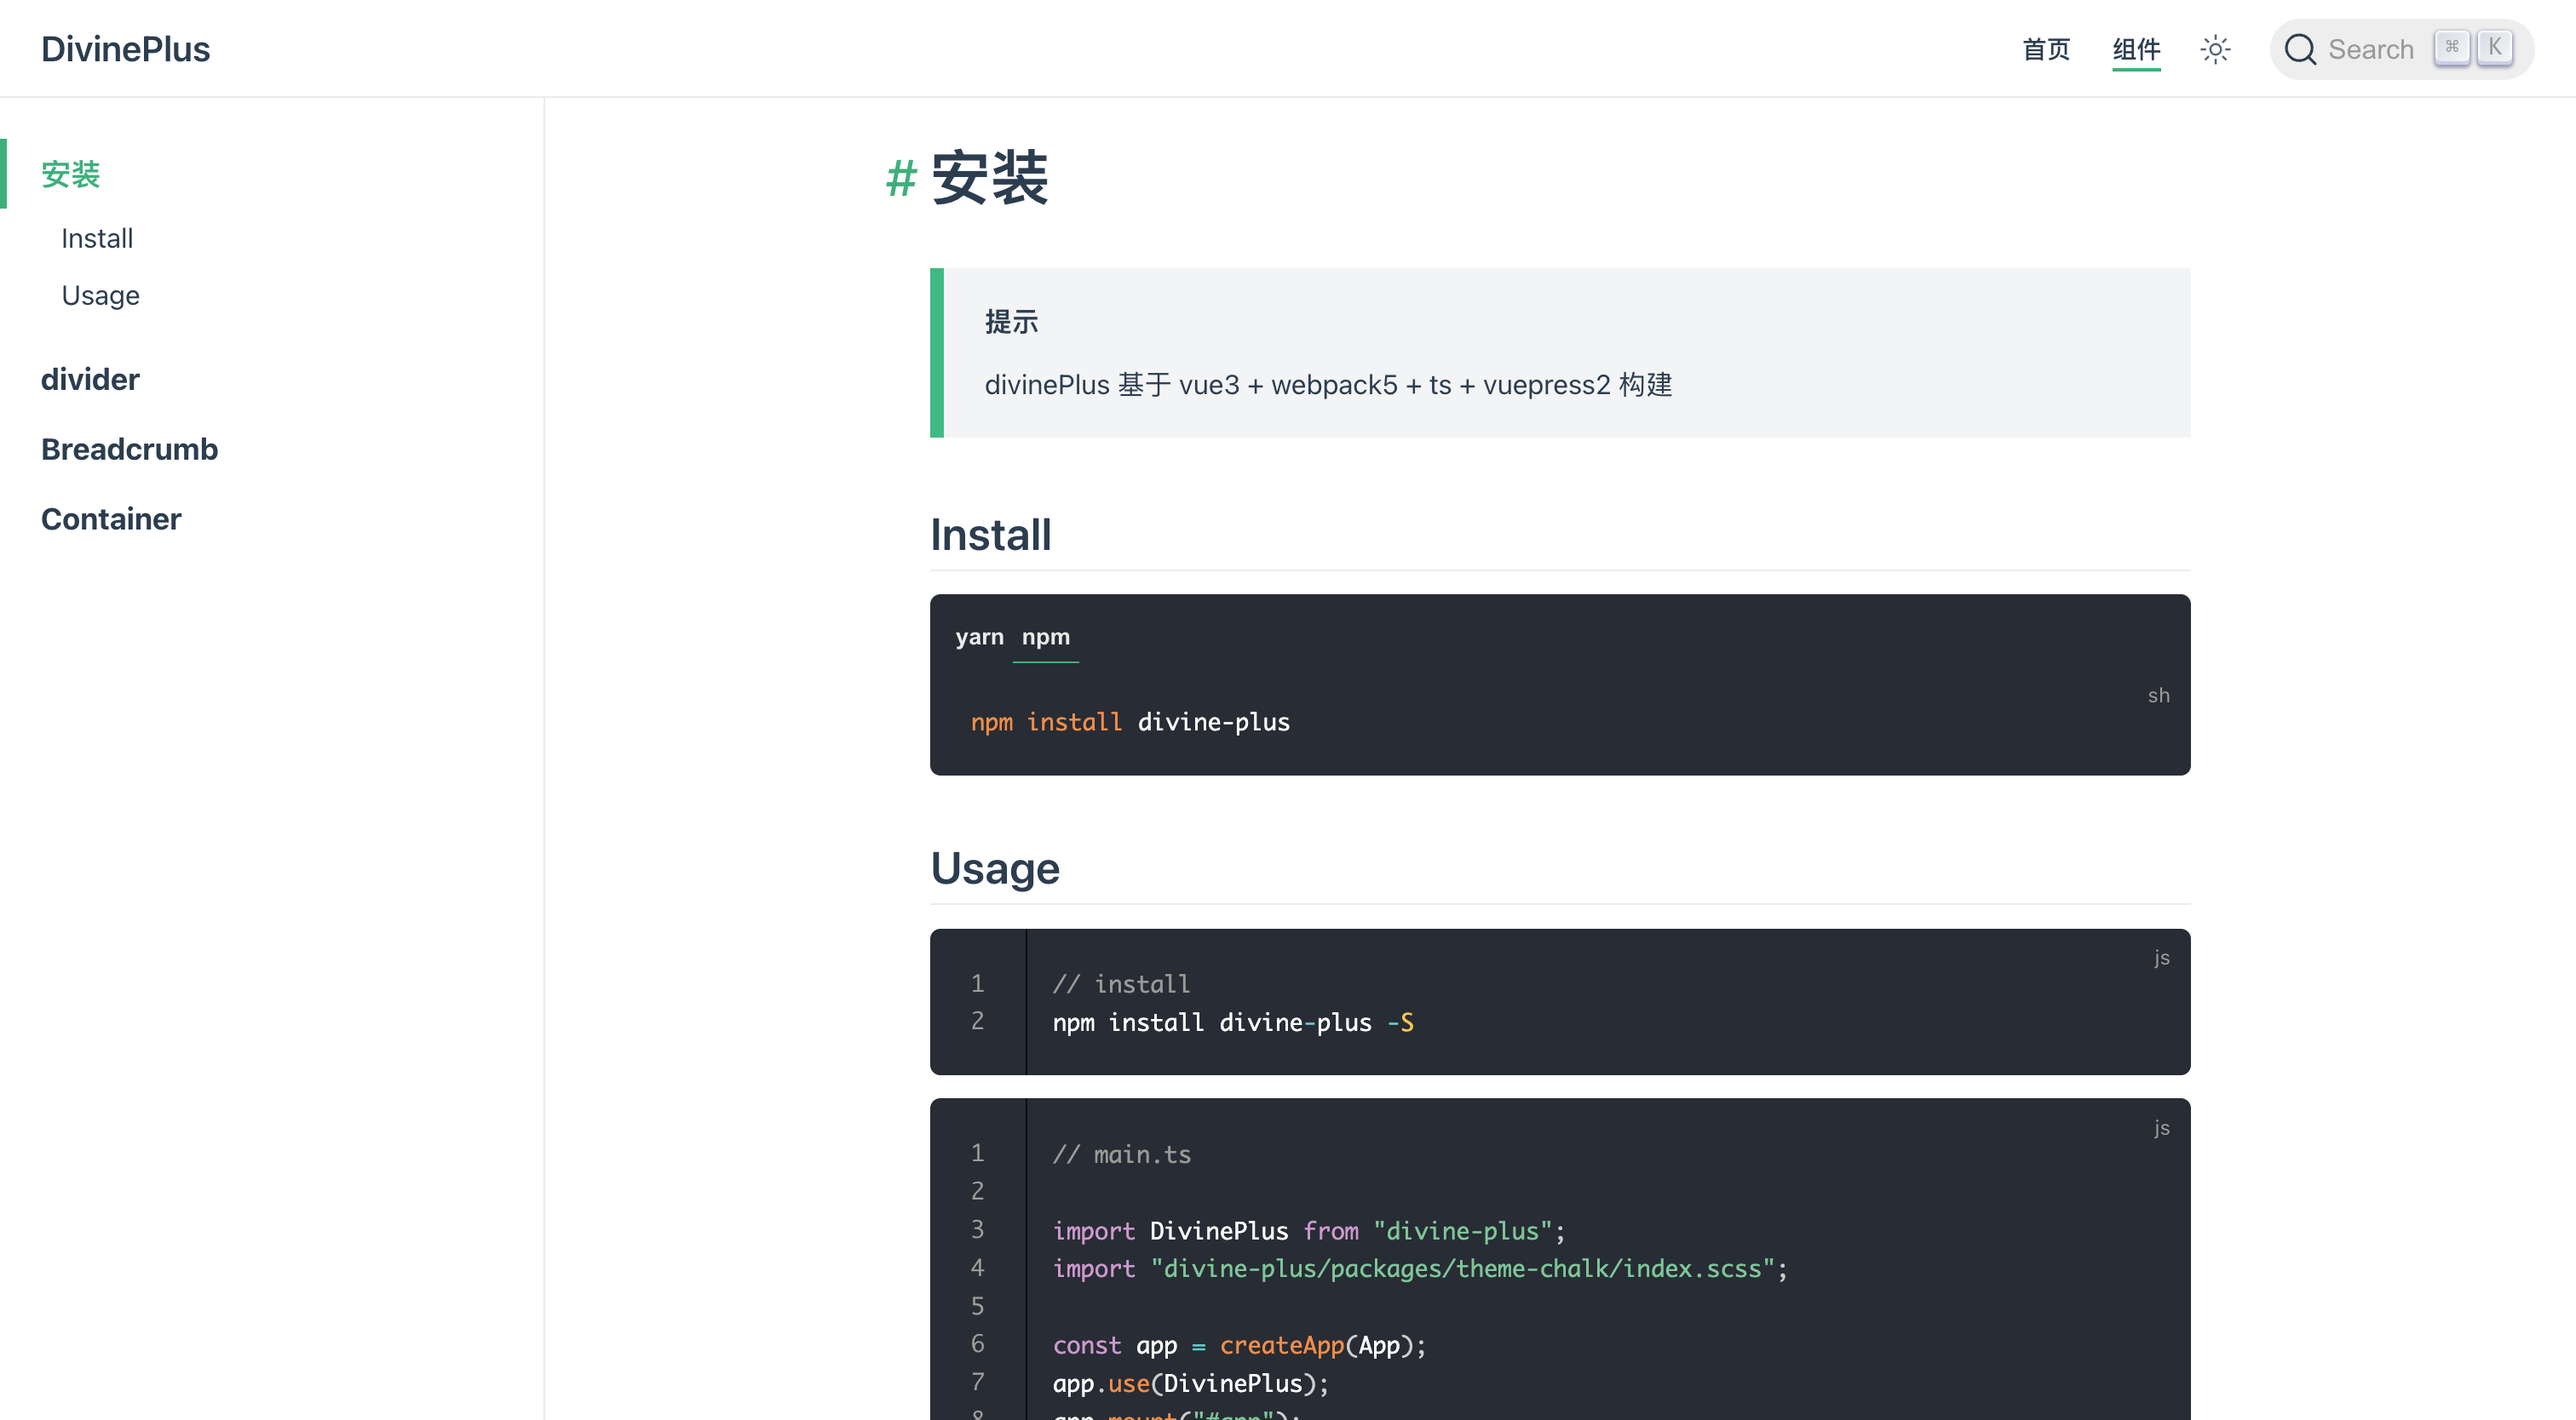
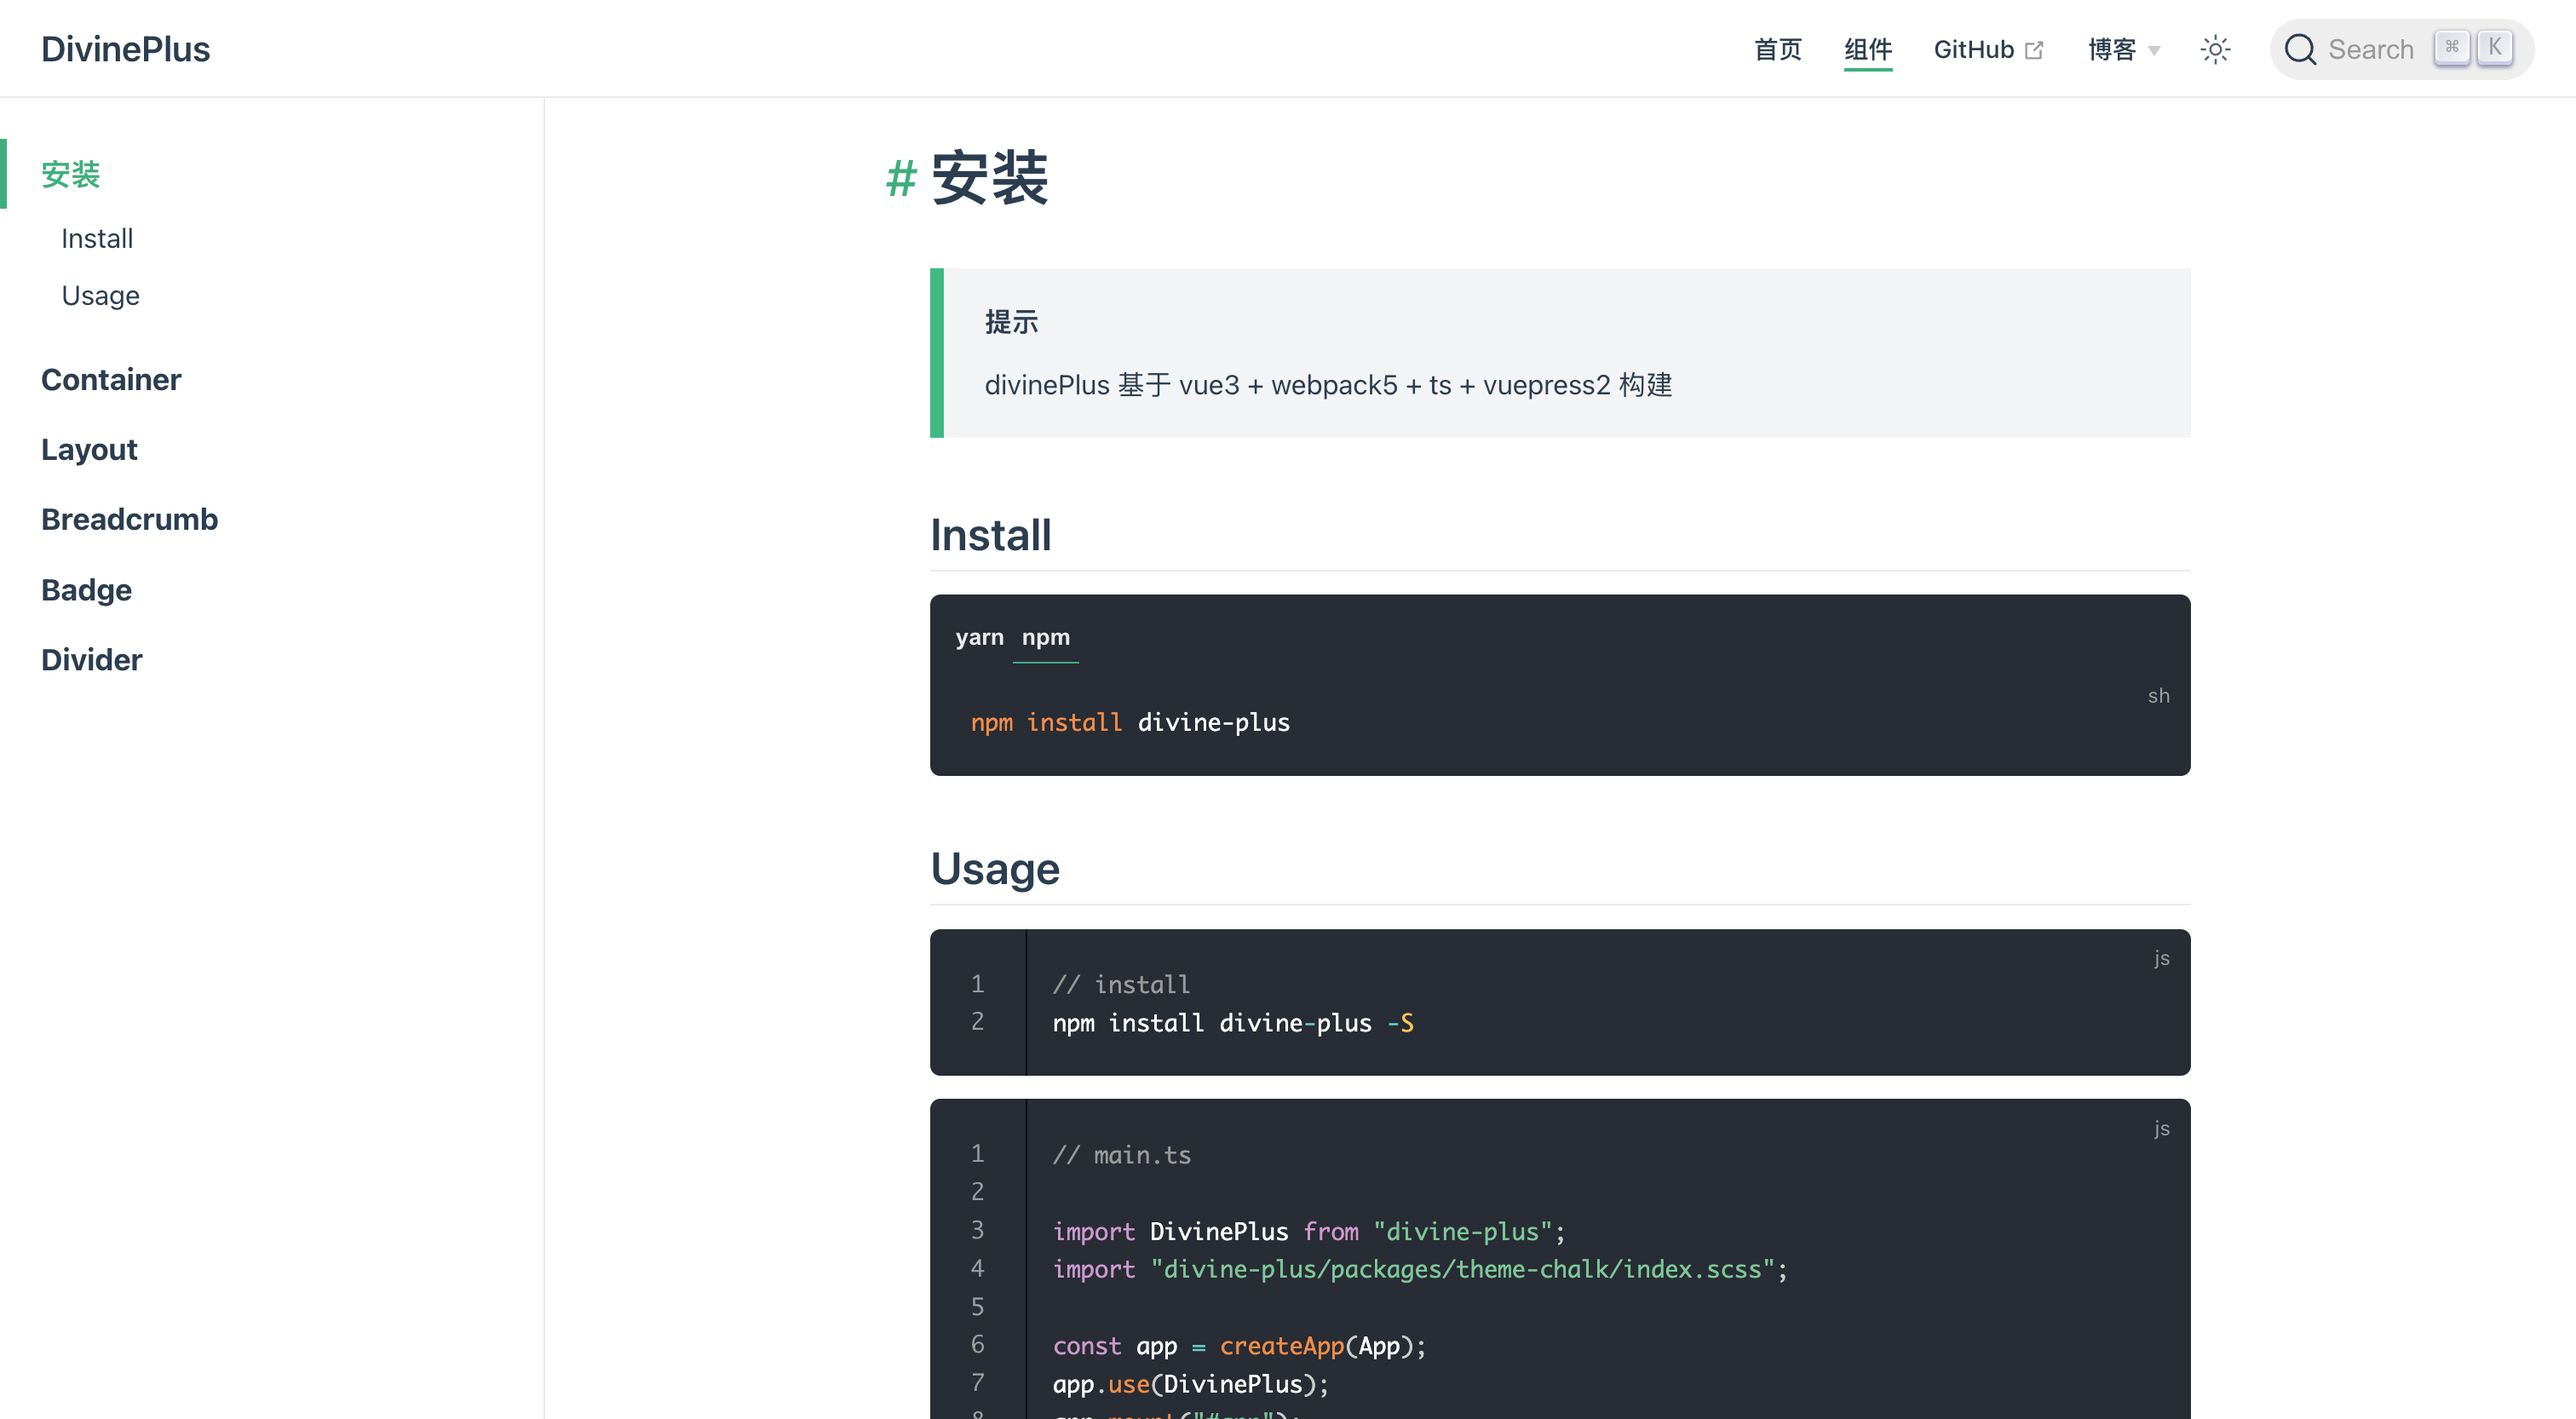
feat: docs link.

diff --git a/examples/app.vue b/examples/app.vue
@@ -25,6 +25,11 @@
         <DvBreadcrumbItem><a href="/">列表</a></DvBreadcrumbItem>
         <DvBreadcrumbItem>详情</DvBreadcrumbItem>
       </DvBreadcrumb>
+      <DvBreadcrumb style="margin-top: 18px">
+        <DvBreadcrumbItem :to="{ path: '/home' }">主页</DvBreadcrumbItem>
+        <DvBreadcrumbItem><a href="/">列表</a></DvBreadcrumbItem>
+        <DvBreadcrumbItem>详情</DvBreadcrumbItem>
+      </DvBreadcrumb>
     </section>
 
     <section class="block">
@@ -37,6 +42,16 @@
         </DvContainer>
         <DvFooter class="footer">footer</DvFooter>
       </DvContainer>
+    </section>
+
+    <section class="block">
+      <h4>Row,Col 测试</h4>
+      <el-row :gutter="20">
+        <el-col :span="6"><div class="grid-content ep-bg-purple" /></el-col>
+        <el-col :span="6"><div class="grid-content ep-bg-purple" /></el-col>
+        <el-col :span="6"><div class="grid-content ep-bg-purple" /></el-col>
+        <el-col :span="6"><div class="grid-content ep-bg-purple" /></el-col>
+      </el-row>
     </section>
 
     <section class="block">

diff --git a/packages/utils/install.ts b/packages/utils/install.ts
@@ -1,19 +1,20 @@
 import type { App, Component } from "vue";
-// 图标库，用于 breadcrumb 组件的 separator-icon
+
+// icons
+// - 用于 breadcrumb 组件的 separator-icon
 import * as ElementPlusIconsVue from "@element-plus/icons-vue";
-// import router from "../router/index";
 
+// component
 import Divider from "../components/divider/index.vue";
-
 import Breadcrumb from "../components/breadcrumb/breadcrumb.vue";
 import BreadcrumbItem from "../components/breadcrumb/breadcrumb-item.vue";
-
 import Container from "../components/container/container.vue";
 import Header from "../components/container/header.vue";
 import Footer from "../components/container/footer.vue";
 import Aside from "../components/container/aside.vue";
 import Main from "../components/container/main.vue";
-
+import Row from "../components/row/index.vue";
+import Col from "../components/col/index.vue";
 import Badge from "../components/badge/index.vue";
 
 // 注意
@@ -34,6 +35,9 @@ const components = [
   Footer,
   Aside,
   Main,
+
+  Row,
+  Col,
 
   Badge,
 ];

diff --git a/packages/components/row/index.vue b/packages/components/row/index.vue
@@ -1,0 +1,45 @@
+<template>
+  <section :class="[ns.b()]"></section>
+</template>
+
+<script lang="ts">
+export default {
+  name: "DvRow",
+};
+</script>
+
+<script setup lang="ts">
+import { PropType } from "vue";
+import { useNamespace } from "../../hooks/useNamespace";
+
+const ns = useNamespace("row");
+
+const props = defineProps({
+  gutter: {
+    type: Number,
+    default() {
+      return 0;
+    },
+  },
+  tag: {
+    type: String,
+    default() {
+      return "div";
+    },
+  },
+  justify: {
+    type: String as PropType<
+      "start" | "end" | "center" | "space-around" | "space-between"
+    >,
+    default() {
+      return "start";
+    },
+  },
+  align: {
+    type: String as PropType<"top" | "middle" | "bottom">,
+    default() {
+      return "top";
+    },
+  },
+});
+</script>

diff --git a/docs/.vuepress/utils/config.js b/docs/.vuepress/utils/config.js
@@ -39,6 +39,17 @@ const navbar = [
     text: "组件",
     link: "/components",
   },
+  {
+    text: "GitHub",
+    link: "https://github.com/woow-wu7/8-divine-plus",
+  },
+  {
+    text: "博客",
+    children: [
+      { text: "掘金", link: "https://juejin.cn/user/1063982989065799/posts" },
+      { text: "简书", link: "https://www.jianshu.com/u/70c8a3b8bb44" },
+    ],
+  },
 ];
 
 // 3
@@ -47,6 +58,7 @@ const sidebar = {
   "/components/": [
     "/components/",
     "/components/container.md",
+    "/components/layout.md",
     "/components/breadcrumb.md",
     "/components/badge.md",
     "/components/divider.md",

diff --git a/packages/components/col/index.vue b/packages/components/col/index.vue
@@ -1,0 +1,34 @@
+<template>
+  <section :class="[ns.b()]"></section>
+</template>
+
+<script lang="ts">
+export default {
+  name: "DvCol",
+};
+</script>
+
+<script setup lang="ts">
+import { useNamespace } from "../../hooks/useNamespace";
+
+const ns = useNamespace("col");
+
+const props = defineProps({
+  span: {
+    type: Number,
+    default: 24,
+  },
+  tag: {
+    type: String,
+    default: "div",
+  },
+  offset: Number,
+  pull: Number,
+  push: Number,
+  xs: [Number, Object],
+  sm: [Number, Object],
+  md: [Number, Object],
+  lg: [Number, Object],
+  xl: [Number, Object],
+});
+</script>

diff --git a/docs/.vuepress/config.js b/docs/.vuepress/config.js
@@ -8,6 +8,7 @@ module.exports = {
   lang: "zh-CN",
   title: "DivinePlus",
   description: "vue3 + webpack5 + ts + vuepress2 组件库",
+  open: false,
   head,
   theme,
   plugins,

diff --git a/docs/components/layout.md b/docs/components/layout.md
@@ -1,0 +1,39 @@
+# Layout
+
+布局
+
+# 基本组件
+
+- Row
+- Col
+
+# Row 组件属性
+
+| 属性    | 描述                         | 类型   | 可选值                                      | 默认值 |
+| ------- | ---------------------------- | ------ | ------------------------------------------- | ------ |
+| gutter  | 栅格间隔                     | number | -                                           | 0      |
+| tag     | 自定义元素标签               | string | -                                           | div    |
+| justify | flex 布局下的 - 水平排列方式 | string | start/end/center/space-around/space-between | div    |
+| align   | flex 布局下的 - 垂直排列方式 | string | top/middle/bottom                           | div    |
+
+# Col 组件属性
+
+| 属性   | 描述               | 类型                                      | 可选值 | 默认值 |
+| ------ | ------------------ | ----------------------------------------- | ------ | ------ |
+| span   | 栅格占据的列数     | number                                    | -      | 24     |
+| offset | 栅格左侧的间隔格数 | number                                    | -      | 0      |
+| push   | 栅格向右移动格数   | number                                    | -      | 0      |
+| pull   | 栅格向左移动格数   | number                                    | -      | 0      |
+| xs     | <768px             | number/object (例如 {span: 4, offset: 4}) | -      | -      |
+| sm     | ≥768px             | number/object (例如 {span: 4, offset: 4}) | -      | -      |
+| md     | ≥992px             | number/object (例如 {span: 4, offset: 4}) | -      | -      |
+| lg     | ≥1200px            | number/object (例如 {span: 4, offset: 4}) | -      | -      |
+| xl     | ≥1920px            | number/object (例如 {span: 4, offset: 4}) | -      | -      |
+
+```
+xs -------- extra-small
+sm -------- small
+md -------- middle
+lg -------- large
+xl -------- extra-large
+```

diff --git a/docs/components/divider.md b/docs/components/divider.md
@@ -1,4 +1,4 @@
-# divider
+# Divider
 
 区隔内容的分割线
 

diff --git a/docs/components/badge.md b/docs/components/badge.md
@@ -1,4 +1,4 @@
-# badge
+# Badge
 
 徽章
 
